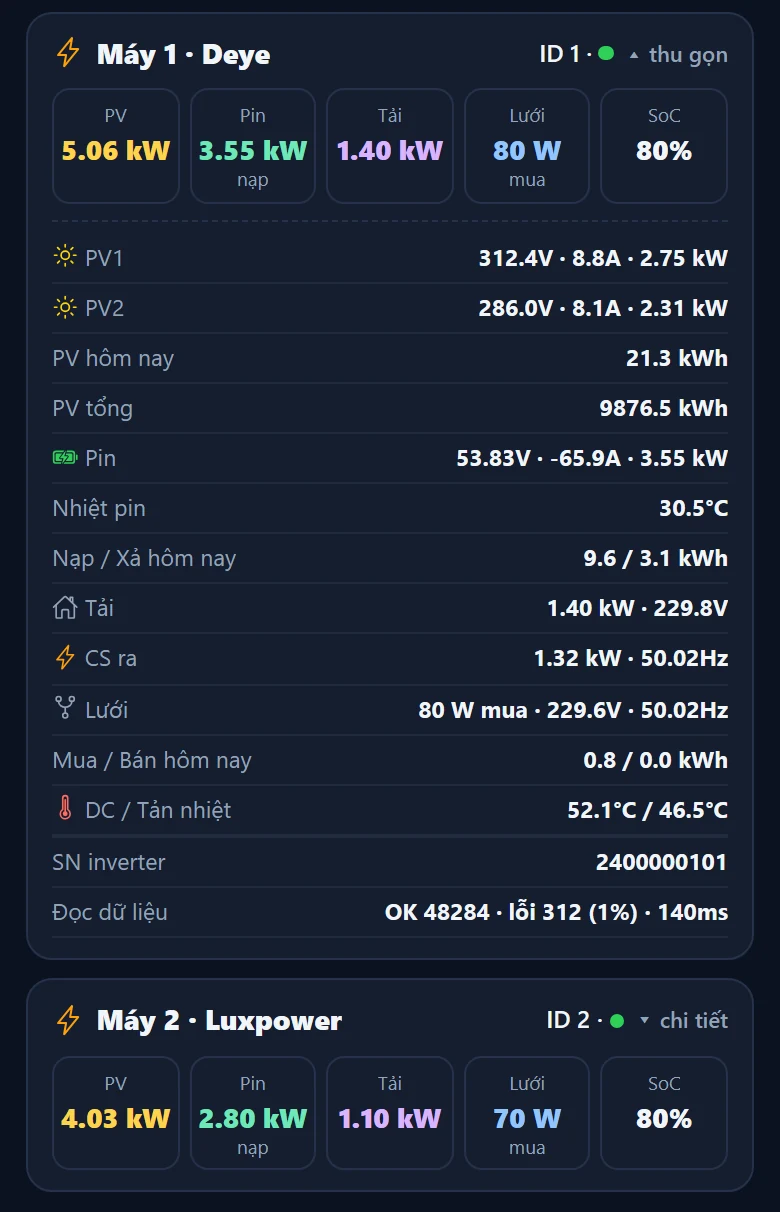
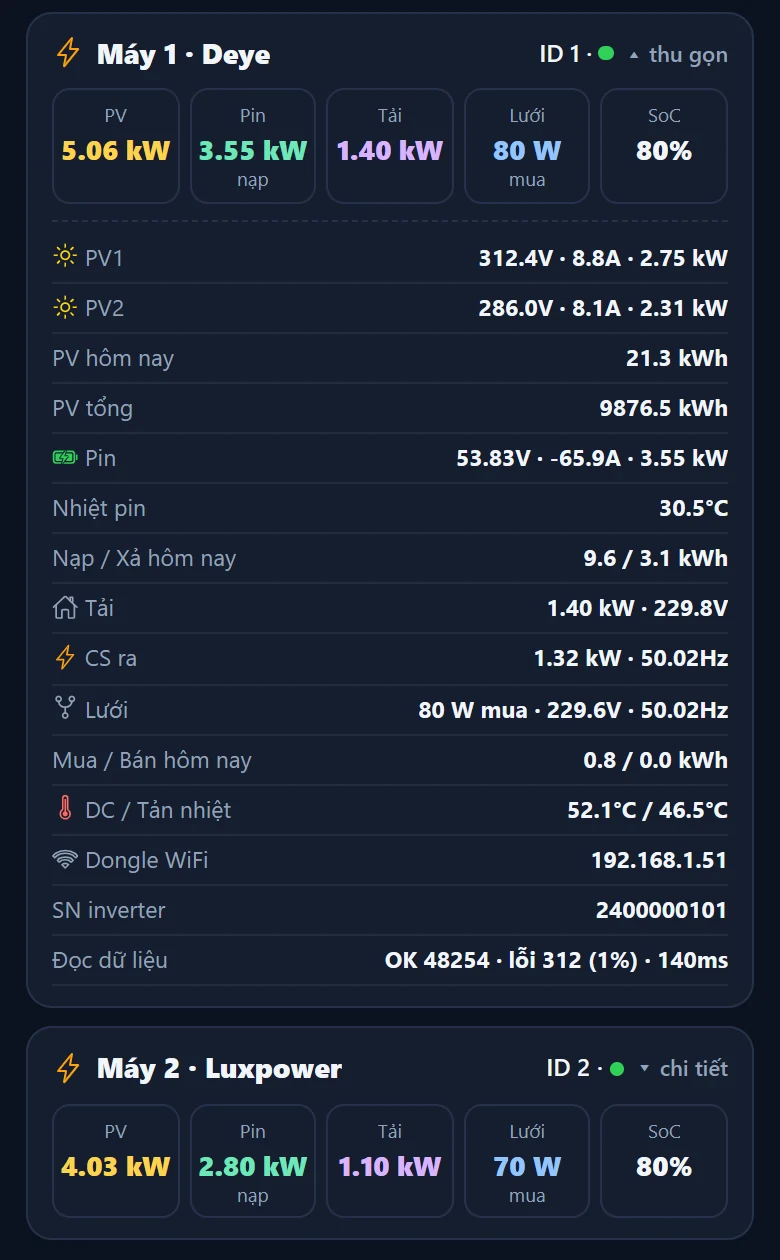
bài Gateway: ảnh app mới sau khi app bỏ chữ kỹ thuật (vòng giữa "2 MÁY", dòng "Dongle WiFi") + chú thích + ảnh bìa

diff --git a/huongdan/gateway-deye-lux-bms/index.html b/huongdan/gateway-deye-lux-bms/index.html
@@ -347,7 +347,7 @@
             <span class="pin" style="left:7.95%;top:42.02%">2</span>
             <span class="pin" style="left:92.31%;top:42.02%">3</span>
             <span class="pin" style="left:58.33%;top:64.40%">4</span>
-            <span class="pin" style="left:70.26%;top:39.30%">5</span>
+            <span class="pin" style="left:59.23%;top:43.97%">5</span>
             <span class="pin" style="left:3.85%;top:86.09%">6</span>
           </a>
           <ol class="legend">
@@ -355,7 +355,7 @@
             <li><span class="pin">2</span><div><b>Pin lưu trữ</b>: công suất sạc/xả, <b>% pin</b>, nhiệt độ pin.</div></li>
             <li><span class="pin">3</span><div><b>Lưới điện</b>: cả nhà đang mua hay bán điện, điện áp, tần số.</div></li>
             <li><span class="pin">4</span><div><b>Tải tiêu thụ</b>: điện cả nhà đang dùng.</div></li>
-            <li><span class="pin">5</span><div><b>×2</b>: đang đọc 2 inverter. Giữa vòng là nhiệt độ của từng máy. Chấm chạy trên dây cho biết chiều dòng điện.</div></li>
+            <li><span class="pin">5</span><div><b>2 MÁY</b>: đang đọc 2 inverter. Dưới là nhiệt độ của từng máy. Chấm chạy trên dây cho biết chiều dòng điện.</div></li>
             <li><span class="pin">6</span><div><b>Số điện hôm nay</b>: PV phát · Nạp/Xả pin · Mua điện · Bán điện, cộng cả 2 máy (kWh).</div></li>
           </ol>
         </div>
@@ -371,13 +371,14 @@
         <div class="figtag"><span class="n">HÌNH B</span><span>Máy 1 · Deye (mở chi tiết) và Máy 2 · Luxpower</span><span class="rule"></span></div>
         <div class="plate annoplate side">
           <a class="anno mid" href="/huongdan/img/gw-app-may.webp" target="_blank" rel="noopener">
-            <img src="/huongdan/img/gw-app-may.webp" width="780" height="1212" alt="Thẻ từng inverter: Máy 1 Deye mở chi tiết PV1 PV2, pin, tải, lưới; Máy 2 Luxpower thu gọn" loading="lazy">
-            <span class="pin" style="left:41.03%;top:4.46%">1</span>
-            <span class="pin" style="left:3.85%;top:8.91%">2</span>
-            <span class="pin" style="left:29.49%;top:23.35%">3</span>
-            <span class="pin" style="left:29.49%;top:37.79%">4</span>
-            <span class="pin" style="left:29.49%;top:54.46%">5</span>
-            <span class="pin" style="left:47.44%;top:84.16%">6</span>
+            <img src="/huongdan/img/gw-app-may.webp" width="780" height="1260" alt="Thẻ từng inverter: Máy 1 Deye mở chi tiết PV1 PV2, pin, tải, lưới; Máy 2 Luxpower thu gọn" loading="lazy">
+            <span class="pin" style="left:41.03%;top:4.29%">1</span>
+            <span class="pin" style="left:3.85%;top:8.57%">2</span>
+            <span class="pin" style="left:29.49%;top:22.46%">3</span>
+            <span class="pin" style="left:29.49%;top:36.35%">4</span>
+            <span class="pin" style="left:29.49%;top:52.38%">5</span>
+            <span class="pin" style="left:33.59%;top:68.25%">6</span>
+            <span class="pin" style="left:51.03%;top:84.76%">7</span>
           </a>
           <ol class="legend">
             <li><span class="pin">1</span><div><b>Máy 1 · Deye</b>: chấm xanh = đang đọc được. Bấm <b>chi tiết</b> để mở, <b>thu gọn</b> để đóng.</div></li>
@@ -385,7 +386,8 @@
             <li><span class="pin">3</span><div><b>PV1, PV2</b>: điện áp · dòng · công suất từng chuỗi tấm; PV hôm nay, PV tổng.</div></li>
             <li><span class="pin">4</span><div><b>Pin</b>: điện áp · dòng · công suất, nhiệt độ pin, nạp/xả hôm nay.</div></li>
             <li><span class="pin">5</span><div><b>Tải, cổng ra, lưới</b>: công suất, điện áp, tần số; mua/bán hôm nay; nhiệt độ máy.</div></li>
-            <li><span class="pin">6</span><div><b>Máy 2 · Luxpower</b>: bấm <b>chi tiết</b> để xem tương tự.</div></li>
+            <li><span class="pin">6</span><div><b>📶 Dongle WiFi</b>: địa chỉ dongle của máy trong mạng nhà — mạch đọc máy qua dongle này.</div></li>
+            <li><span class="pin">7</span><div><b>Máy 2 · Luxpower</b>: bấm <b>chi tiết</b> để xem tương tự.</div></li>
           </ol>
         </div>
       </div>
